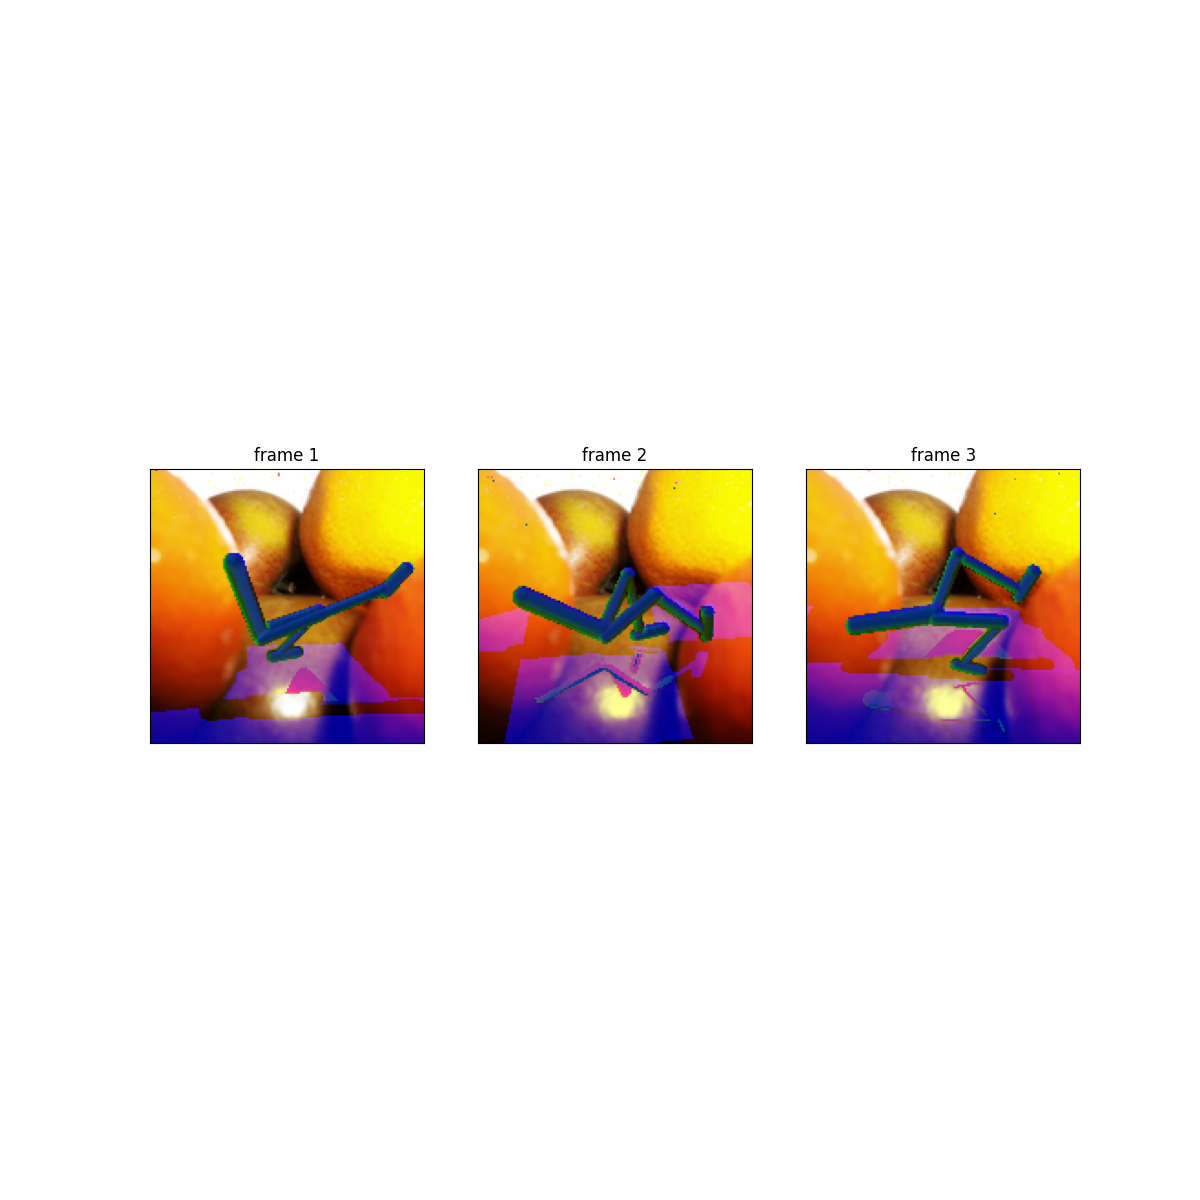
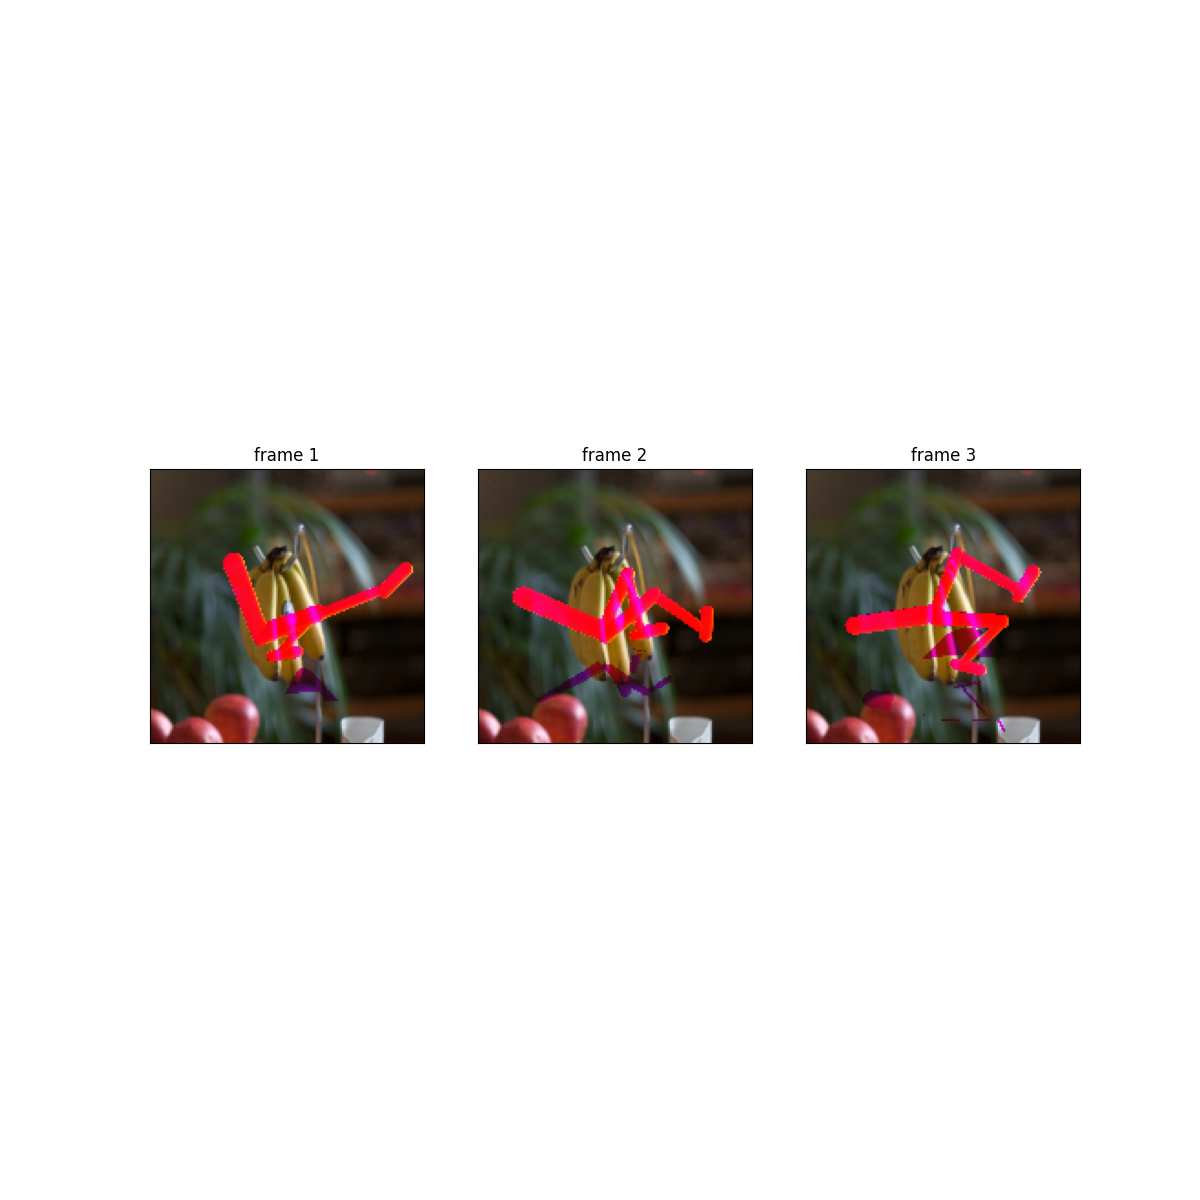
fixed thresholded overaly

Changed region(s): [[0.4008, 0.37, 0.925, 0.6167], [0.1233, 0.37, 0.37, 0.6167]]

diff --git a/src/augmentations.py b/src/augmentations.py
@@ -264,7 +264,7 @@ def random_conv(x):
     return total_out.reshape(n, c, h, w)
 
 
-def thresholded_overlay(x, R_threshold=0.4, G_threshold=1, B_threshold=1):
+def thresholded_overlay(x, R_threshold=0.5, G_threshold=0.4, B_threshold=1):
     global data_iter
     load_dataloader(batch_size=x.size(0), image_size=x.size(-1))
     overlay = _get_data_batch(x.size(0)).repeat(x.size(1) // 3, 1, 1, 1)
@@ -272,14 +272,14 @@ def thresholded_overlay(x, R_threshold=0.4, G_threshold=1, B_threshold=1):
     x_rgb = x.reshape(-1, 3, h, w) / 255.0
     weight = torch.ones(x_rgb.shape)
     weight[:, 0] = weight[:, 0] * R_threshold
-    weight[:, 1] = weight[:, 0] * G_threshold
-    weight[:, 2] = weight[:, 0] * B_threshold
+    weight[:, 1] = weight[:, 1] * G_threshold
+    weight[:, 2] = weight[:, 2] * B_threshold
     mask = x_rgb > weight.to(x.get_device())
     out = (mask * x_rgb + (~mask) * overlay) * 255.0
     return out.reshape(n, c, h, w)
 
 
-def thresholded_overlay_color(x, R_threshold=0.4, G_threshold=1, B_threshold=1):
+def thresholded_overlay_color(x, R_threshold=0.5, G_threshold=0.4, B_threshold=1):
     global data_iter
     load_dataloader(batch_size=x.size(0), image_size=x.size(-1))
     overlay = _get_data_batch(x.size(0)).repeat(x.size(1) // 3, 1, 1, 1)
@@ -287,8 +287,8 @@ def thresholded_overlay_color(x, R_threshold=0.4, G_threshold=1, B_threshold=1):
     x_rgb = x.reshape(-1, 3, h, w) / 255.0
     weight = torch.ones(x_rgb.shape)
     weight[:, 0] = weight[:, 0] * R_threshold
-    weight[:, 1] = weight[:, 0] * G_threshold
-    weight[:, 2] = weight[:, 0] * B_threshold
+    weight[:, 1] = weight[:, 1] * G_threshold
+    weight[:, 2] = weight[:, 2] * B_threshold
     mask = x_rgb > weight.to(x.get_device())
     for i in range(n):
         weights = torch.randn(3, 3, 3, 3).to(x.device)

diff --git a/src/test_augmentation.py b/src/test_augmentation.py
@@ -15,7 +15,7 @@ def parse_args():
     parser = argparse.ArgumentParser()
 
     # environment
-    parser.add_argument("--aug_key", default="thresholded_overlay_color", type=str)
+    parser.add_argument("--aug_key", default="thresholded_overlay", type=str)
     parser.add_argument("--save_file_name", default="aug_test.png", type=str)
     parser.add_argument(
         "--sample_png_folder",
